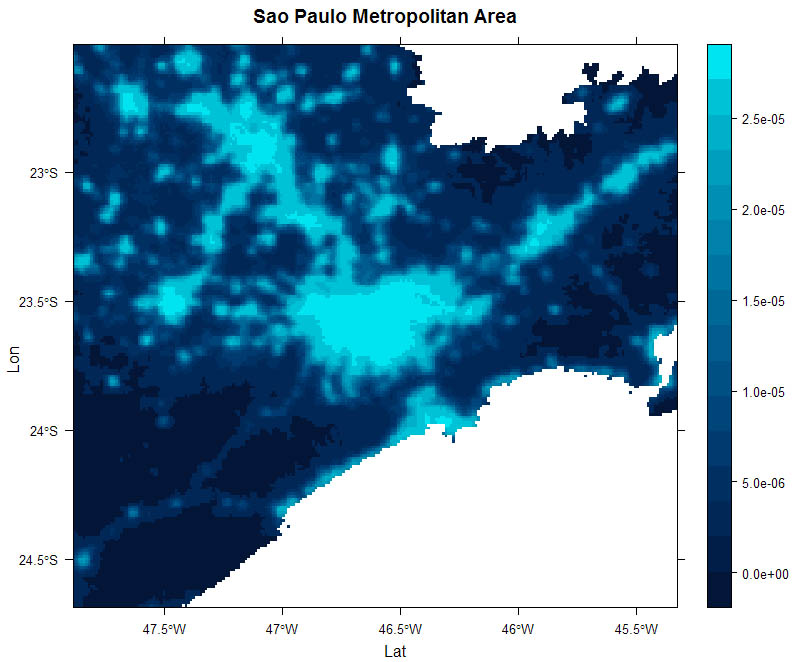
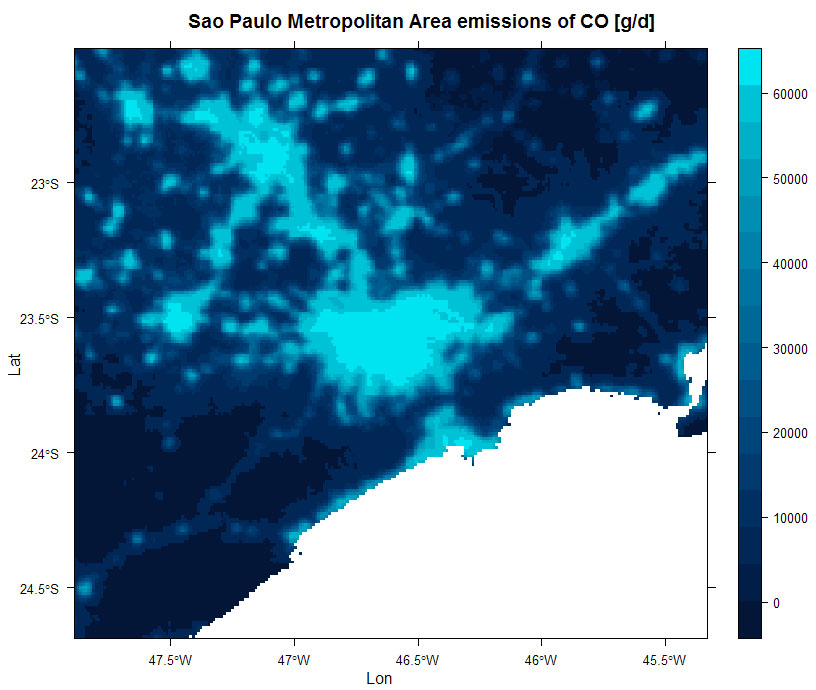
exemple argument

diff --git a/README.md b/README.md
@@ -11,6 +11,7 @@ functions:
 
 - read: read global inventories in netcdf format
 - vehicles: tool to set-up vehicle data.table
+- emissionfactor: tool to set-up emission factors data.table
 - gridInfo: read grid information from a NetCDF file
 - pointSource: emissions from point sources
 - plumeRise: calculate plume rise (in progress)
@@ -25,6 +26,10 @@ functions:
 datasets:
 
 - perfil: vehicle counting profile for vehicular activity
+- cut of image of persistent lights of the Defense Meteorological Satellite Program (DMSP)
+- CETESB 2015 emission factors
+- DETRAN / CETESB flet distributil for 2016
+- shapefiles for Brasil states
 
 ## Packages needed
 
